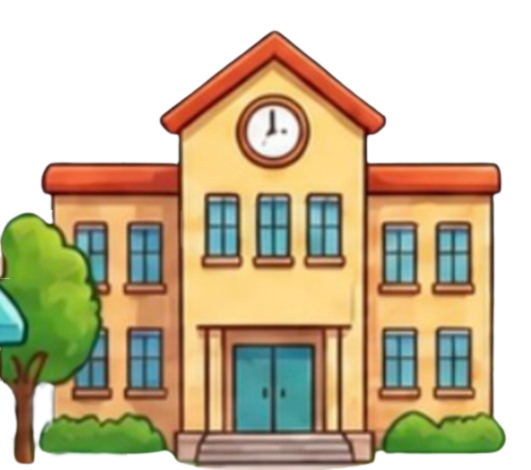
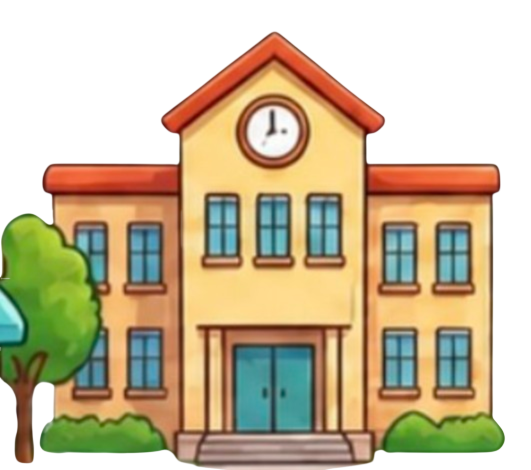
fixed car inside look

diff --git a/index.html b/index.html
@@ -50,6 +50,11 @@
       z-index: 1;
     }
 
+    /* In menu mode, push flex content above the dashboard */
+    #lanes.menu-mode .lane {
+      padding-bottom: 12vh;
+    }
+
     /* ─── Individual Lane ───────────────────────────────────────── */
     .lane {
       flex: 1;
@@ -91,23 +96,19 @@
       bottom: 0;
       left: 0;
       width: 100%;
-      height: 32vh;
-      overflow: hidden;
+      height: 11vh;
+      overflow: visible;
       z-index: 15;
       pointer-events: none;
-      /* mask applied to the div so coordinates align with the visible area,
-         fading the white windshield at top to transparent, car interior below */
-      background: transparent;
-      mask-image: linear-gradient(to bottom, transparent 0%, black 22%, black 100%);
-      -webkit-mask-image: linear-gradient(to bottom, transparent 0%, black 22%, black 100%);
     }
 
     #dashboard img {
-      display: block;
-      width: 100%;
-      margin-top: -46%;  /* push the white top portion above the container */
-      position: relative;
-      z-index: 1;
+      position: absolute;
+      bottom: 0;
+      left: 50%;
+      transform: translateX(-50%);
+      width: 50%;
+      height: auto;
     }
 
     /* ─── Lane Content Wrapper ──────────────────────────────────── */
@@ -180,11 +181,11 @@
     /* ─── Category: Item Image ──────────────────────────────────── */
     .item-img {
       position: absolute;
-      bottom: 28vh;
+      bottom: 14vh;
       left: 50%;
       transform: translateX(-50%);
       width: 75%;
-      max-height: 38vh;
+      max-height: 35vh;
       object-fit: contain;
       filter: drop-shadow(0 6px 14px rgba(0,0,0,0.45));
       transition: transform 0.3s ease, filter 0.3s ease;
@@ -216,7 +217,7 @@
     /* ─── Category: Word Label on active lane ───────────────────── */
     .lane-word {
       position: absolute;
-      bottom: 33vh;
+      bottom: 12vh;
       left: 50%;
       transform: translateX(-50%);
       font-size: clamp(1.4rem, 2.8vw, 2.4rem);
@@ -516,6 +517,7 @@ function refreshLaneHighlight() {
 ================================================================ */
 function renderMenu() {
   menuTitleEl.style.display = 'block';
+  document.getElementById('lanes').classList.add('menu-mode');
   applyBackground(null);
 
   CONFIG.worlds.forEach((world, i) => {
@@ -542,6 +544,7 @@ function renderMenu() {
 ================================================================ */
 function renderCategory(world) {
   menuTitleEl.style.display = 'none';
+  document.getElementById('lanes').classList.remove('menu-mode');
   applyBackground(world);
 
   world.items.forEach((item, i) => {
